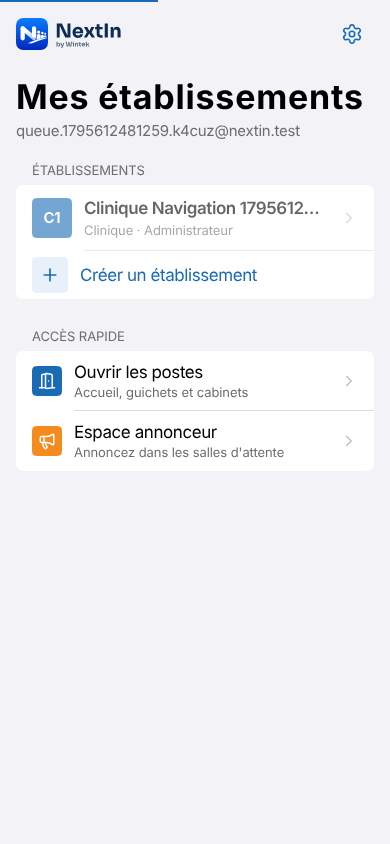
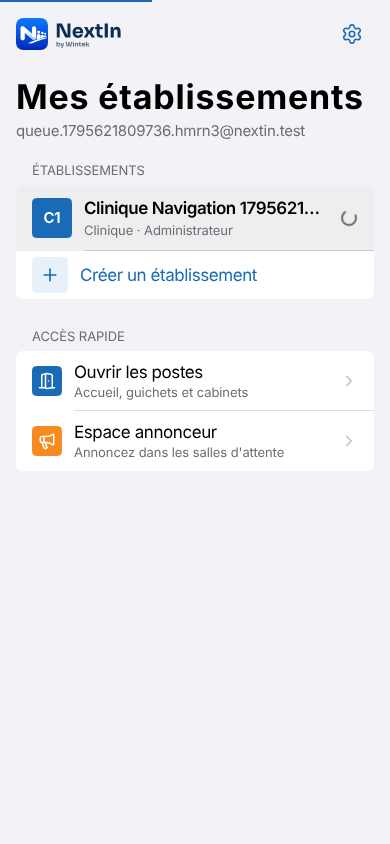
WIP: navigation rule, notes and checklist

diff --git a/apps/web/e2e/ux-navigation.spec.ts b/apps/web/e2e/ux-navigation.spec.ts
@@ -42,7 +42,12 @@ test.describe("Navigation : réaction immédiate", () => {
     const row = page.getByRole("link", { name: new RegExp(org!.name) }).first();
     await expect(row).toBeVisible();
     await slowDown(page, new RegExp(`/app/o/${b.orgId}`));
+    // Pendant le chargement : chevron masqué, indicateur affiché à sa place (cercle du personnel).
+    const indicator = row.locator("[data-nav-indicator]");
+    const spinning = () =>
+      indicator.evaluate((el) => getComputedStyle(el, "::after").content !== "none" && getComputedStyle(el.querySelector("svg")!).visibility === "hidden");
     await expectFeedback(page, row, async () => {
+      expect(await spinning()).toBe(true);
       await page.waitForURL(new RegExp(`/app/o/${b.orgId}$`), { timeout: 15_000 });
     });
     await expectAccessible(page);

diff --git a/CLAUDE.md b/CLAUDE.md
@@ -71,7 +71,7 @@ Référence de style : **maquettes v2** `design/mockups/v2/` (README + 26 fichie
 - **Barre d'onglets client native iOS** (`TabBar` : pleine largeur, translucide, filet en haut, 4 onglets icône + libellé, actif en bleu) ; barre latérale façon Mac à partir de 1024 px. **Barre latérale du personnel bleu nuit unie** (`SidebarPanel`, `data-surface="navy"` qui redéfinit les jetons : texte blanc, rubrique active sur blanc translucide, logo en version sombre).
 - **Motif des points du logo** : la file en points (`QueueDots` : le client = point orange plus gros, les autres en gris), chargement et écran de démarrage (`DotsLoader`, trois points qui sautent, immobiles si les animations sont réduites). États : `Badge` (`pill`/`tag`, `dot`), `StatusDot` (blue occupé, orange appelé, green libre, neutral fermé), `LiveIndicator` (« En direct »). Squelettes au format des listes groupées (`page-skeletons.tsx`).
 - **Composants** (`components/ui`) : `Button` (filled/tinted/gray/plain/destructive/destructive-plain/navy, `leadingIcon`/`trailingIcon`), `IconButton` (label obligatoire), `ListSection`/`ListRow`/`ListSwitchRow`, `Card`, `StatCard`, `CalloutCard`, `Switch`, `SegmentedControl`, `TextField`/`SearchField`, `NavigationBar` (`large` avec sur-titre et grand titre réductible, ou `inline` ; retour en haut à gauche), `TabBar` (barre native iOS en bas sur mobile, barre latérale sur ordinateur), `BottomBar` (action principale : fixe en bas sur téléphone, à la largeur du contenu sur tablette, dans la barre de titre sur ordinateur via `PageFrame`), `DataTable` (tableau sur ordinateur), `StatGroup` (indicateurs dans une seule carte à filets), `CodeBoxes` (code à 6 chiffres en cases, champ réel invisible : collage et `one-time-code`), `StepProgress` (« Étape 2 sur 3 »), `CheckPicker` (longue liste à cocher avec recherche), `IconLink` (« + » d'une liste), `Sheet` (vaul), `AlertDialog`, `Badge` (`pill` pour un statut, `tag` pour une étiquette, `dot`)/`StatusDot`/`LiveIndicator`, `QueueDots`/`DotsLoader`, `ProgressBar`, `Skeleton`, `Spinner`, `ToastProvider`, `TicketHero`, `NowServingCard`, `ServiceTile`, `ScannerFrame`, `Logo`/`LogoMark`. Réutiliser avant de créer.
-- **Qualité UX (U1, `docs/modules/U1-UX-QUALITE.md`)** : titres sans césure (`text-wrap: balance`) ; `EmptyState` sur toute liste vide ; `error.tsx` (`ErrorScreen`) pour `(staff)` / `(auth)`, `global-error.tsx` à la racine, textes `ERROR_TEXTS` ; **jamais d'`error.tsx` dans le groupe client** (≈ 5 Ko par page) ; `loading.tsx` (`page-skeletons.tsx`) seulement là où le budget le permet, jamais sur un segment dont les pages font `notFound()` pour les droits (404 → 200) ; suppression réversible = masquage optimiste + « Annuler » 5 s (`useToast` avec `action`) ; `useOptimistic` avec retour arrière et message.
+- **Qualité UX (U1, `docs/modules/U1-UX-QUALITE.md`)** : titres sans césure (`text-wrap: balance`) ; `EmptyState` sur toute liste vide ; `error.tsx` (`ErrorScreen`) pour `(staff)` / `(auth)`, `global-error.tsx` à la racine, textes `ERROR_TEXTS` ; **jamais d'`error.tsx` dans le groupe client** (≈ 5 Ko par page) ; `loading.tsx` (`page-skeletons.tsx`) seulement là où le budget le permet, jamais sur un segment dont les pages font `notFound()` pour les droits (404 → 200) ; suppression réversible = masquage optimiste + « Annuler » 5 s (`useToast` avec `action`) ; `useOptimistic` avec retour arrière et message. **Toute navigation donne une réaction visible en moins de 100 ms (ligne pressée + indicateur sur le lien, barre de progression au-delà de 150 ms). Jamais d'écran qui semble figé** (`docs/modules/UX-NAVIGATION.md`) : `NavFeedback` (gabarit racine, `lib/ui/nav-feedback.ts`) marque le lien touché `aria-busy` et allume `#nx-nav` ; lignes-liens `data-row-link` + chevron dans `[data-nav-indicator]` (cercle par `NAV_INDICATOR_CSS`, gabarit du personnel seulement) ; lien vers un fichier : `data-no-nav-feedback` ou `download`. Pages client : ne rien ajouter à la feuille commune pour le personnel (classes arbitraires uniques → style en ligne, grilles par `grid-cols-[var(--lg-cols)]`), variantes réservées au personnel hors des composants importés par les pages client (ex. `TintedCallout`).
 - **Mouvement** : ressort CSS `ease-[var(--ease-spring)]`, 200–420 ms, jamais gratuit ; retour tactile immédiat (`pressable`) ; `prefers-reduced-motion` respecté.
 - **Clair et sombre** sur chaque écran (`data-theme` sur `<html>`, préférence Auto/Clair/Sombre).
 - **Accessibilité** : cibles ≥ 44 px (testé), contrastes AA (axe testé en clair et sombre), `aria-label` sur tout bouton icône, libellés associés aux champs, navigation clavier (`:focus-visible`), rôles ARIA corrects (ex. `ListSection radioGroupLabel` pour les choix exclusifs).
@@ -142,7 +142,7 @@ Référence de style : **maquettes v2** `design/mockups/v2/` (README + 26 fichie
 - `branch_board.calls` = appels du jour, en cours **et** terminés depuis moins de 30 min (12 au plus) : filtrer avec `isActiveCall` pour « appels en cours ». S'abonner au tableau avec `subscribeBoard` (`lib/client/board-feed.ts`), jamais une relecture brute qui écraserait une diffusion plus récente.
 - Annonces : `@nextin/shared/announcements` (segments `fr/word-ticket`, `fr/letter-c`, `fr/47`… + texte de repli) ; voix MP3 dans le bucket public `voices` (`pnpm voices:generate`, ElevenLabs) avec `manifest.json`, sinon synthèse vocale du navigateur ; carillon synthétisé ; « Activer le son » obligatoire.
 - `data-theme="light"` possible sur un sous-arbre (écran TV, ticket imprimé). Choix multiples : `ListSection checkboxGroupLabel`.
-- **Refonte v2 LOT 5b (maquettes 09 et 23, `docs/modules/REFONTE-V2-LOT5B.md`)** : écran **toujours clair** (`bg-grouped`), tailles en multiples de `--u` (`TV_UNIT_STYLE` = `min(1vw, 1.7778vh)`, même rendu de 720p à la 4K) par les classes `u-*` de `app/tv/tv.css` (feuille propre à `/tv` : jamais de classe arbitraire `calc(var(--u)…)` dans les composants, elle irait dans la feuille commune des pages client). Contenu calculé par `tvView` (`lib/tv/calls.ts` : appels en cours `isActiveCall` (4 au plus), dernier appel marqué d'un trait et de « Appel », appels précédents, « À suivre » pris à tour de rôle dans chaque file, personnes en attente) ; code de présence lu dans `presence_url` (`presenceCodeOf`). Flash vert plein écran `TvFlash` (4 s, `bg-called`, file d'attente des appels) déclenché avec l'annonce ; « Activer le son » en voile (`TvSoundGate`) ; publicité en alternance avec le QR code de l'agence (règles de `TvAdSlot` inchangées) ; écran révoqué → appairage avec message rouge (`sessionStorage`). Code d'appairage lisible par les tests dans `data-pairing-code`.
+- **Refonte v2 LOT 5b (maquettes 09 et 23, `docs/modules/REFONTE-V2-LOT5B.md`)** : écran **toujours clair** (`bg-grouped`), tailles en multiples de `--u` (`TV_UNIT_STYLE` = `min(1vw, 1.7778vh)`, même rendu de 720p à la 4K) par les classes `u-*` de `app/tv/tv.css` (feuille propre à `/tv` : jamais de classe arbitraire `calc(var(--u)…)` dans les composants, elle irait dans la feuille commune des pages client). Contenu calculé par `tvView` (`lib/tv/calls.ts` : appels en cours `isActiveCall` (4 au plus), dernier appel marqué d'un trait et de « Appel », appels précédents, « À suivre » pris à tour de rôle dans chaque file, personnes en attente) ; code de présence lu dans `presence_url` (`presenceCodeOf`), demandé par `/api/tv/session` **seulement si l'agence accepte les tickets à distance** (`remote_tickets_enabled`), sinon `presence_url` = `entry_url` et aucun « Code de présence ». Flash vert plein écran `TvFlash` (4 s, `bg-called`, file d'attente des appels) déclenché avec l'annonce ; « Activer le son » en voile (`TvSoundGate`) ; publicité en alternance avec le QR code de l'agence (règles de `TvAdSlot` inchangées) ; écran révoqué → appairage avec message rouge (`sessionStorage`). Code d'appairage lisible par les tests dans `data-pairing-code`.
 
 ## Notifications (M7, `docs/modules/M7.md`)
 - Mise en file **uniquement par la base** : déclencheurs sur `ticket_events` (appel, rappel, recul, réorientation + « bientôt votre tour » selon `almost_turn_threshold`), `practitioner_absences` (retard) et `notification_contacts` (confirmation). Un job par contact actif, `dedupe_key` unique.
@@ -207,7 +207,7 @@ Référence de style : **maquettes v2** `design/mockups/v2/` (README + 26 fichie
 - Sky Catch (maquette v2 12) : logique pure `@nextin/shared/ads/sky-catch` (testée : 3 vies, pièce +10, gemme +50, invulnérabilité après un choc, 4 décors tous les 200 points puis plus vite, `levelsCompleted` = niveaux franchis pour le bon `min_levels`) ; rendu canvas `sky-scene.ts` (jetons `--game-*` déclarés sur le jeu, `SKY_TOKENS`, jamais dans la feuille globale), sons Web Audio `sky-audio.ts` (après un geste, musique et effets séparés, `nextin.skycatch.sound`), écran `sky-catch.tsx` (pause Espace, interstitielle en surcouche au passage de niveau, partie figée et enregistrée à l'appel → `onSaved`). Crochet de test `window.__skyCatch` seulement si `localStorage['nextin.e2e'] = '1'`. Bons : `/coupon/<jeton>` (QR via `QrImage`), validation `/ads/redeem`.
 - **Jeux (LOT 5b, maquettes 01, 10, 11, 12)** : « Jouer en attendant » (`PlayCard`) toujours proposé tant que le ticket attend (Paires ne dépend d'aucun contenu) ; feuille `GameSheet` : mini-ticket « En direct » en tête, cartes de jeu avec le record de l'appareil, « C'est votre tour » vert à l'appel. Quiz « série sans fin » (`QuizSeries`) : banque Wintek `quiz_bank_questions` (lecture publique des seules questions actives, **colonne `correct` jamais lisible** hors service role, écriture service role seulement), `quiz_bank_draw` (sans les questions vues sur l'appareil) et `quiz_bank_check` (réponse vérifiée par la base), limités par ticket ; clé `quiz_bank` de `game_session` ; logique pure `@nextin/shared/games/quiz-bank` (3 vies, interstitielle toutes les `QUIZ_INTERSTITIAL_EVERY` questions, questions vues, import CSV). Import : `pnpm quiz:import <fichier.csv> [--dry-run]` (exemple `supabase/seed/quiz-bank.example.csv`). Paires : `@nextin/shared/games/pairs` (testée), dessins `lib/games/pair-art.ts`, grille à la hauteur de l'écran (`pairsGrid`). Stockage de l'appareil toujours dans `try/catch`. **LOT 5c** (`docs/modules/REFONTE-V2-LOT5C.md`) : explication (`explanation`, `explanation_en`, jamais lisibles par anon ni authenticated, renvoyées seulement par `quiz_bank_check`) en tiroir après « Valider » ; illustrations `quiz_bank_questions.illustration` (liste fermée `QUIZ_ILLUSTRATIONS`, dessins `lib/games/quiz-art.ts`) ; CSV : colonnes facultatives `explication_fr;explication_en;illustration` ; sons Web Audio communs (`game-audio.ts`, partitions `lib/games/game-tunes.ts`, `useGameSounds`, réglage `nextin.games.sound`) ; jeu ouvert à l'appel : un seul écran vert, celui de la feuille (« J'arrive », partie gardée).
 - Tests e2e de diffusion : agence dans une ville propre et campagne Or ciblant cette ville (`e2e/ads-helpers.ts`), la base locale contenant d'autres campagnes.
-- **Refonte v2 LOT 6a (maquettes 24, 14, 15, `docs/modules/REFONTE-V2-LOT6A.md`)** : espace annonceur à barre latérale bleu nuit (`AdsNav` : carte de l'annonceur, rubriques selon le rôle, caissier = « Valider un bon » seul) ; campagnes en maître-détail (`/ads/campaigns`, couleurs `CAMPAIGN_STATUS_TONE`, une phrase de statut `campaignNotice` en `CalloutCard tinted`, six chiffres en `StatGroup`) ; **nouvelle campagne en cinq étapes** (`CampaignWizard`, `/ads/campaigns/new` puis `/<id>/edit?step=n`, logique pure `@nextin/shared/ads` `campaign-wizard.ts` : `firstIncompleteStep`, `campaignSummary`, `visibleCities`, `gamesOffer`) : « Continuer » = `saveCampaignStep` (brouillon), feuilles revenant à leur étape par `returnTo` (vérifié : étape de la même campagne seulement), récapitulatif permanent à droite ≥ 1 024 px, action en bas du contenu (`BottomBar dock={false}`). Aperçu TV des visuels `AdPreview`. Publicité de l'établissement à enregistrement automatique (`autosave=1`), annonces Maison sur `/ads/house`, annonce publiée en une fois (`createHouseDraft` au choix du visuel, puis `publishHouseAd`). Affiche QR : `lib/pdf/qr-poster.tsx` (domaine par `getAppUrl()`, couleurs `poster-colors.ts`, logo `PdfLogo tone="dark"`). Facture : `lib/pdf/invoice.tsx` + `invoiceContent` (montant en lettres `amountInWords`, lien `/pay/<jeton>` créé au téléchargement par `invoicePdfResponse(invoice, payer)` pour un administrateur ou un propriétaire / éditeur d'annonceur seulement, 10 par heure ; référence du paiement confirmé).
+- **Refonte v2 LOT 6a (maquettes 24, 14, 15, `docs/modules/REFONTE-V2-LOT6A.md`)** : espace annonceur à barre latérale bleu nuit (`AdsNav` : carte de l'annonceur, rubriques selon le rôle, caissier = « Valider un bon » seul) ; campagnes en maître-détail (`/ads/campaigns`, couleurs `CAMPAIGN_STATUS_TONE`, une phrase de statut `campaignNotice` en `CalloutCard tinted`, six chiffres en `StatGroup`) ; **nouvelle campagne en cinq étapes** (`CampaignWizard`, `/ads/campaigns/new` puis `/<id>/edit?step=n`, logique pure `@nextin/shared/ads` `campaign-wizard.ts` : `firstIncompleteStep`, `campaignSummary`, `visibleCities`, `gamesOffer`) : « Continuer » = `saveCampaignStep` (brouillon), feuilles revenant à leur étape par `returnTo` (vérifié : étape de la même campagne seulement), récapitulatif permanent à droite ≥ 1 024 px, action en bas du contenu (`BottomBar dock={false}`). Aperçu TV des visuels `AdPreview` (source filtrée par `safeMediaSrc` : `blob:` ou bucket `ad-creatives` seulement). Publicité de l'établissement à enregistrement automatique (`autosave=1`), annonces Maison sur `/ads/house`, annonce publiée en une fois (`createHouseDraft` au choix du visuel, puis `publishHouseAd`). Affiche QR : `lib/pdf/qr-poster.tsx` (domaine par `getAppUrl()`, couleurs `poster-colors.ts`, logo `PdfLogo tone="dark"`). Facture : `lib/pdf/invoice.tsx` + `invoiceContent` (montant en lettres `amountInWords`, lien `/pay/<jeton>` créé au téléchargement par `invoicePdfResponse(invoice, payer)` pour un administrateur ou un propriétaire / éditeur d'annonceur seulement, 10 par heure ; référence du paiement confirmé).
 
 ## Backlog n° 1 (`docs/modules/BACKLOG-1.md`)
 - Gabarits à barre latérale : `SidebarShell` + `SidebarPanel` (`components/shell`) ; fixe à partir de 1024 px, repliable sur tablette portrait (bouton dans la barre de navigation, Échap, fermeture en naviguant), absente sur téléphone (navigation par listes). Retour masqué sur ordinateur si la rubrique est dans la barre latérale (`isSidebarDestination`, `back.inSidebar`). Toute grille responsive part de `grid-cols-1`.

diff --git a/docs/modules/UX-NAVIGATION.md b/docs/modules/UX-NAVIGATION.md
@@ -1,0 +1,80 @@
+# Correctifs après le LOT 6a — aperçu des publicités, réaction des navigations, code de présence TV
+
+**Aucune migration.** Captures avant / après : `docs/captures/ux-navigation/` (`e2e/screenshots-ux-navigation.spec.ts`,
+`UX_PHASE=before|after` : 700 ms après le toucher d'un lien, réseau ralenti de 2 s ; 390 et 1440 px, clair et sombre ;
+écran TV d'une agence sans ticket à distance).
+
+## 0. Aperçu des publicités (alertes CodeQL « DOM text reinterpreted as HTML », `ad-preview.tsx`)
+
+- Leonel a classé les deux alertes en faux positif : la source est `URL.createObjectURL(fichier choisi)` ou `adFileUrl`
+  (chemin du stockage encodé), utilisée seulement dans le `src` d'une image ou d'une vidéo.
+- Protection ajoutée : `safeMediaSrc` (`lib/ads/media-src.ts`, testée) n'accepte qu'une adresse `blob:` (dont l'origine
+  intérieure est http(s)) ou un fichier du bucket public `ad-creatives` du projet Supabase (même origine, adresse
+  normalisée : pas de remontée `..`, pas d'autre bucket). Sinon l'aperçu montre son état vide.
+
+## 1. Réaction immédiate à chaque navigation
+
+Constat (iPhone) : « Mes établissements » → toucher l'établissement : rien ne bougeait pendant 1 à 3 s.
+
+- **Lien touché** : `NavFeedback` (composant client du gabarit racine, `lib/ui/nav-feedback.ts`) écoute les clics en
+  capture (avant le `preventDefault` de `next/link`) et met `aria-busy="true"` sur le lien interne touché. CSS :
+  lien atténué (barre latérale, onglets, `IconLink`, boutons-liens, retours), ligne de liste (`data-row-link`) gardée
+  pressée ; chez le personnel, le chevron (`[data-nav-indicator]`) laisse place à un cercle qui tourne
+  (`NAV_INDICATOR_CSS`, gabarit du personnel), immobile si les animations sont réduites. Aucun saut de mise en page.
+- **Barre de progression** `#nx-nav` : 2 px, couleur d'accent, sous la zone de sécurité, après 150 ms ; pleine et
+  immobile si les animations sont réduites.
+- **Fin** : quand l'adresse change vraiment (`pushState` / `replaceState` de Next.js à l'arrivée de la page, retour
+  arrière), ou au plus tard après 15 s. Ignorés : nouvel onglet, touches de modification, `download`,
+  `data-no-nav-feedback` (lien vers un fichier sans `download`), autre origine, `/api/`, même adresse.
+- Retour tactile `pressable` ajouté aux onglets client et aux lignes de « Mes établissements » (liens faits main, qui
+  reçoivent aussi `data-row-link` et l'indicateur).
+- Aucun `loading.tsx` ajouté (règle inchangée sur les segments qui font `notFound`).
+
+### Écart avec la demande : pas de `useLinkStatus`
+
+`useLinkStatus` demande un composant client dans chaque lien : du JS en plus sur toutes les pages client, déjà au
+plafond. Un seul écouteur global donne le même résultat pour tous les liens (y compris ceux faits main) pour quelques
+centaines d'octets. Un premier essai en script en ligne coûtait deux fois (HTML et données RSC) : remplacé par un
+composant client intégré au fichier JS déjà chargé par le gabarit (les écouteurs s'installent à l'hydratation, avant
+laquelle `next/link` ne navigue pas côté client).
+
+### Budget des pages client
+
+Les pages client étaient déjà au plafond (LOT 6a : 373 à 379 octets de marge sur `/q` vu d'un iPhone). Pour ne rien
+dépasser, la feuille commune a été allégée de règles réservées au personnel : ombres arbitraires remplacées par des
+styles en ligne ou des classes existantes, grilles arbitraires remplacées par trois classes à variables
+(`md|lg|xl:grid-cols-[var(--…-cols)]`, `@3xl:grid-cols-[var(--cq-cols)]`), animation `call-flash` inutilisée retirée,
+variante teintée de `CalloutCard` sortie dans `TintedCallout` (plus dans le JS de `/q`), requêtes média des écrans de
+démarrage iOS écrites sans espaces.
+
+Mesures (téléphone, `e2e/client.spec.ts`, `e2e/remote.spec.ts`, `e2e/ads.spec.ts`) : `/` 182 Ko, `/scan` 173 Ko,
+`/c` 184 Ko, `/t` 183 Ko, `/profile` 192 Ko, `/q/…` 199 Ko (iPhone 200 Ko, sous 204 800 octets : marge de 225 à 480 octets
+selon l'essai), `/t/…` 197 Ko (avec publicité 198 Ko, iPhone 198 Ko), `/nearby` 197 Ko, `/b/…` 199 Ko, `/b/…/rdv` 199 Ko.
+La marge reste faible : tout ajout aux pages client doit être compensé.
+
+## 2. Écran TV — code de présence seulement si utile
+
+`/api/tv/session` ne demande `tv_presence_code` (et n'ajoute `?p=…` au QR) que si l'agence de l'écran a
+`remote_tickets_enabled` (lecture de `branch_settings` en service role, après validation du jeton). Sinon
+`presence_url` = `entry_url` et le pied de l'écran n'affiche pas « Code de présence ». `confirm_presence` inchangée.
+
+## Liste de contrôle (UX §7)
+
+- [x] 5 états : inchangés (la barre ne remplace aucun état ; elle signale l'attente entre deux pages).
+- [x] axe clair et sombre pendant et après la navigation (`e2e/ux-navigation.spec.ts`, `e2e/responsive.spec.ts`).
+- [x] Clavier : la navigation au clavier (Entrée sur un lien) passe par le même clic ; focus des lignes de « Mes
+  établissements » dessiné à l'intérieur de la ligne.
+- [x] Texte à 200 % : aucune taille fixe ajoutée.
+- [x] 360 / 768 / 1280 px : captures 390 et 1440 px, test responsive complet.
+- [x] Aucun texte ajouté.
+- [x] Budget 200 Ko : mesures ci-dessus.
+- [x] Nouvelle règle : réaction visible en moins de 100 ms, barre au-delà de 150 ms.
+
+## Tests
+
+- Vitest : `lib/ads/media-src.test.ts` (`blob:` et bucket acceptés ; `javascript:`, `data:`, `blob:javascript:`,
+  autre domaine, autre bucket, remontée de dossier refusés).
+- Playwright : `e2e/ux-navigation.spec.ts` (réseau ralenti de 2 s : ligne de « Mes établissements » en cours avec
+  indicateur, barre visible, tout disparaît à l'arrivée ; barre latérale ; onglet client ; écran TV sans ticket à
+  distance sans code, avec code affiché), `e2e/backlog.spec.ts` (code accepté par `confirm_presence`),
+  `e2e/pwa-ios-meta.spec.ts`, budgets client.

diff --git a/docs/NEXTIN_GOLIVE_CHECKLIST.md b/docs/NEXTIN_GOLIVE_CHECKLIST.md
@@ -46,6 +46,7 @@ Sans ces points, aucun client ne peut s'inscrire, payer ou se connecter en produ
 | — | Page « Mon ticket » : attente sans débordement, barre de progression, « Annuler » discret avec confirmation, agence fermée / aucun poste ouvert, « Vous êtes le prochain » | 🤖 | ✅ `beac9a4`, `d6350b8` |
 | T1 | **Publicité sur les écrans TV** : `displays.show_ads` n'est réglable nulle part (`updateDisplay` envoie toujours `false`, l'appairage ne le passe pas). Interrupteur « Publicité sur cet écran » (appairage et modification, activé par défaut), seed de démo, test Playwright | 🤖 | ✅ `f590967` |
 | — | **Refonte v2 LOT 6a** : espace annonceur (maquette 24 : campagnes en maître-détail, statut en une phrase, nouvelle campagne en cinq étapes avec récapitulatif, formules, bons, caissiers), Publicité de l'établissement à enregistrement automatique et annonce Maison, affiche QR (14) et facture (15 : montant en lettres, lien de paiement créé au téléchargement). Aucune migration. Note `docs/modules/REFONTE-V2-LOT6A.md` | 🤖 | ✅ LOT 6a |
+| — | **Correctifs après le LOT 6a** : réaction immédiate à chaque navigation (lien en cours, barre au-delà de 150 ms), aperçu des publicités filtré (`safeMediaSrc`), code de présence de l'écran TV seulement avec les tickets à distance. Aucune migration. Note `docs/modules/UX-NAVIGATION.md` | 🤖 | ✅ |
 
 ---
 

diff --git a/docs/NEXTIN_UX_STANDARDS.md b/docs/NEXTIN_UX_STANDARDS.md
@@ -115,3 +115,5 @@ Chaque écran qui affiche des données prévoit ces 5 états :
 4. Testé à 360 px, 768 px et 1280 px de large.
 5. Aucun texte en dur hors des fichiers de traduction ; aucun texte anglais dans l'interface française.
 6. Budget de 200 Ko respecté pour les pages client.
+7. Toute navigation donne une réaction visible en moins de 100 ms (ligne pressée + indicateur sur le lien, barre de
+   progression au-delà de 150 ms). Jamais d'écran qui semble figé.
